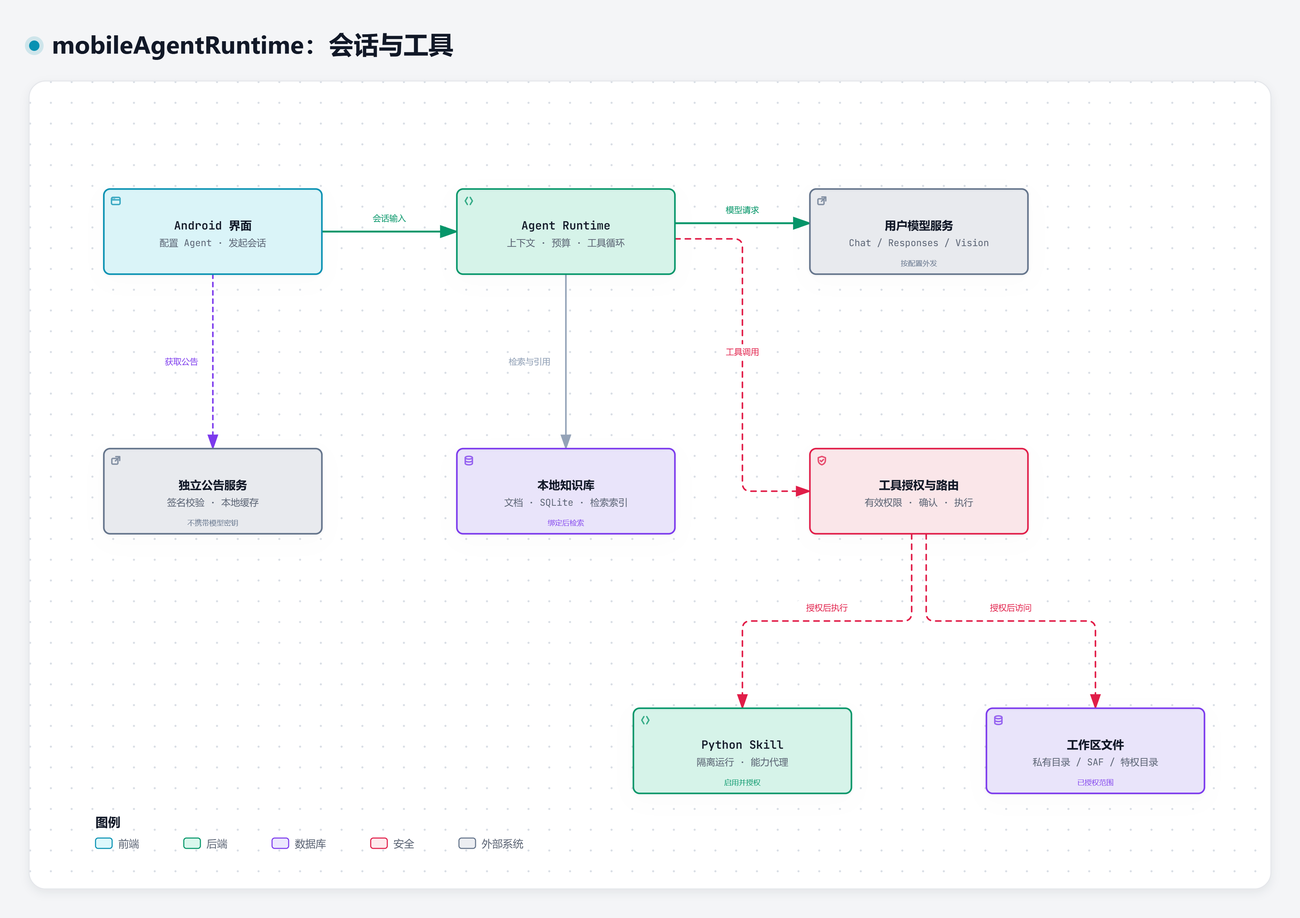
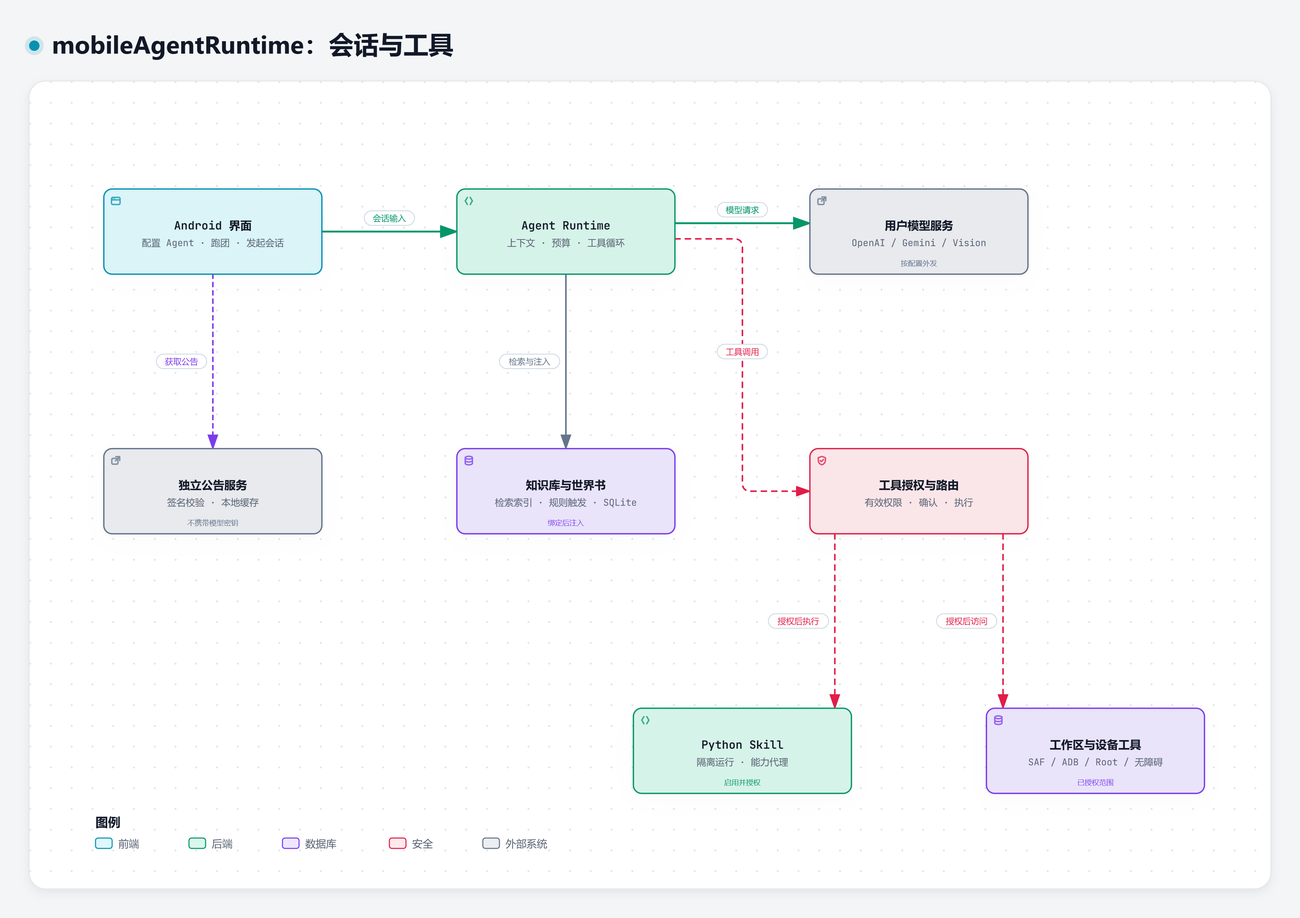
docs: rewrite user-facing README for v1.5.0 and refresh Archify diagram

diff --git a/README.md b/README.md
@@ -3,200 +3,211 @@
 
 # mobileAgentRuntime
 
-mobileAgentRuntime 是运行在 Android 上的 Agent 工作台。你可以接入自己的模型服务，为不同任务组合提示词、知识库、Skills 和文件权限，在手机上完成资料问答、文档处理和工具调用。
+mobileAgentRuntime 是运行在 Android 上的本地 Agent 工作台。你可以接入自己的大模型 API，按任务组合系统提示词与知识库，挂载世界书、角色卡和 Python 技能，或调用工作区与设备工具处理文档、读写代码并主持跑团（TRPG）战役。
 
-应用在设备端保存配置、会话、知识文件和检索索引，并管理上下文、执行预算与授权。模型推理由你配置的服务提供；聊天、视觉处理和 API Embedding 会向对应服务发送所需内容。默认本地 Embedding 在设备上运行。项目的公告服务独立于模型接入。
-
-本文面向已有 API 接入基础的用户，重点说明应用内的配置关系和使用流程。
-
-## 功能
-
-| 用途 | 应用提供的能力 |
-| --- | --- |
-| 多模型与多 Agent | 接入 OpenAI-compatible Chat Completions 或 OpenAI Responses，为 Agent 选择模型、提示词修订和运行预算 |
-| 资料问答 | 导入文件、文件夹或 ZIP，建立本地知识库，结合全文与向量检索返回可追溯引用 |
-| 图片与复杂文档 | 使用支持图片输入的模型处理图片、扫描页及需要视觉解释的内容，保留处理状态与视觉缺口 |
-| Skills | 导入以 `SKILL.md` 为入口的技能包；符合兼容条件的 Python 程序可在隔离运行时执行 |
-| 文件任务 | 在应用私有工作区、系统授权文件夹或已授权的特权目录中读写文件 |
-| 外部工具 | 按配置使用联网搜索、远程 HTTP MCP，以及 Shizuku / Windows 有线 ADB Companion |
-| 排障 | 查看脱敏请求预览、能力探测结果和导入进度，按需导出诊断 ZIP |
+应用在设备本地保存配置与会话历史，同时托管知识库、世界书和检索索引。默认向量化（ONNX Embedding）在手机端离线运行；聊天推理与视觉解析，以及可选的 API Embedding 和联网搜索，均直连你配置的服务商。
 
 ![mobileAgentRuntime 会话与工具架构](docs/diagrams/project-overview.png)
 
-图表由 [Archify](https://github.com/tt-a1i/archify) 生成，概括会话执行路径。知识导入的视觉处理和 API Embedding 另见下文。[图表来源与复现方式](docs/diagrams/README.md)。
+架构图由 [Archify](https://github.com/tt-a1i/archify) 生成，展示单次会话与工具调用的执行路径，复现方式见[图表说明](docs/diagrams/README.md)。
 
-## 使用
+## 功能概览
 
-### 安装与基本要求
+| 场景 | 可用能力 |
+| --- | --- |
+| 多协议模型接入 | 支持 OpenAI Chat Completions、OpenAI Responses、Google AI Studio 与 Vertex AI Express 原生接口，兼容各类 HTTPS/HTTP 反代网关 |
+| 多模态对话 | 支持发送文字与图片（单条消息最多 8 张），提供自动上下文压缩、运行预算控制、会话归档与完整 ZIP 备份 |
+| 角色卡与世界书 | 导入 Tavern v1 与 Character Card v2/v3（JSON/PNG），批量导入并管理世界书，支持关键词、正则、递归激活与离线触发测试 |
+| 跑团模式（TRPG） | 专用桌面跑团界面，内置 D&D 与 CoC 7 版数值框架、复合骰子与检定卡、团务日志、队伍背包、地点地图、检查点分支与本机氛围媒体 |
+| 本地知识库 | 导入文档、文件夹或 ZIP，对图片与扫描页执行多模态视觉解析，通过本地 SQLite FTS5 与 USearch 向量混合检索返回带出处的引用 |
+| 技能（Skills） | 导入以 `SKILL.md` 为入口的技能包，支持纯指令技能，并在 Android 隔离 CPython 3.14 运行时中执行兼容的 Python 脚本与标准库 CLI |
+| 工作区与设备工具 | 在应用私有目录、SAF 授权文件夹、ADB 特权目录或 Root 目录中读写文件、搜索代码与应用补丁，支持 Shizuku、有线常驻 ADB、Root 与无障碍辅助 |
+| 联网、MCP 与诊断 | 集成 Brave、Tavily、Exa 搜索及 DeepSeek 搜索与网页抓取，支持远程 HTTP MCP 工具绑定，提供请求检查器与脱敏诊断包导出 |
 
-- Android 8.0（API 26）及以上；正式包为 `arm64-v8a`，Debug/Review 另支持 `x86_64`。
-- 从 [GitHub Releases](https://github.com/hedanbaomi/mobile-agent-runtime/releases) 获取正式 APK，或按本文的[源码构建](#构建)生成安装包。
-- v1.0.2 起每天首次打开会检查正式更新，也可在“关于”手动检查。发现新版后点击“下载并安装”，首次按系统提示允许安装，再确认升级。旧版本请先从 Releases 手动安装 v1.0.2；详见 [更新说明](docs/APP_UPDATES.md)。
-- 准备可访问的模型端点、模型 ID 和凭据。需要图片输入或工具调用时，确认所选服务与模型支持相应协议能力。
+## 快速上手
 
-主要页面从全局侧边菜单进入：**对话、智能体、服务商、知识、技能、公告、设置、MCP、请求检查器**。手机上点左上角菜单按钮，宽屏窗口使用常驻侧栏。
+### 安装与更新
 
-Debug/Review 与正式包签名不同，首次切换前先导出并核对需要保留的数据，不能直接覆盖安装。正式版本与发布附件说明见 [发布文档](docs/RELEASING.md)。
+- **系统要求**：Android 8.0（API 26）及以上。正式发行包面向 `arm64-v8a` 设备，Debug 与 Review 构建额外包含 `x86_64` 以支持模拟器。
+- **获取安装包**：从 [GitHub Releases](https://github.com/hedanbaomi/mobile-agent-runtime/releases) 下载最新正式版 APK（当前最新稳定版为 `v1.5.0`），或参照下文[构建](#构建)章节从源码打包。
+- **应用内更新**：应用在前台运行时每小时自动检查 GitHub 正式版更新，也可在**设置 → 关于**中手动检查。点击“下载并安装”后，应用会在校验文件哈希与签名后拉起系统安装界面；更新机制详见[更新说明](docs/APP_UPDATES.md)。
 
-### 建立第一段会话
+全局导航菜单汇集了全部功能入口，包括**对话**、**智能体**、**服务商**、**知识**、**世界书**、**技能**、**公告**、**设置**、**MCP** 和**请求检查器**。手机端点击左上角菜单按钮或从侧边滑出抽屉，平板与宽屏窗口使用常驻侧栏。
 
-1. 在**服务商**中新建服务商，填写 Base URL、API 格式和凭据，再添加模型配置。先配置一个 `CHAT` 模型即可。
-2. 选择模型并运行**测试连接**。需要工具调用或图片输入时，再执行**能力探测**；探测会发出实际请求，可能产生费用。
-3. 在**智能体**中新建 Agent，选择 Chat 模型和提示词，保存配置。知识库、Skills 和工作区可以随后添加。
-4. 在**对话**中选择该 Agent，新建会话并发送消息。
-5. 需要处理自己的资料或文件时，按下文绑定知识库、Skill 或工作区，再创建使用新配置的会话。
+Debug/Review 构建与正式发行包使用不同签名。首次在两者之间切换前，请先在**设置 → 数据与备份**中导出所需数据，卸载旧包后再安装新包。发布规范与附件校验方式见[发布文档](docs/RELEASING.md)。
 
-新会话保存 Agent 配置快照。修改 Agent 的模型、提示词和资源组合，从新会话开始使用；撤销资源权限或禁用 Skill 仍会限制旧会话的后续调用。每个会话还持有自己的工作区绑定，修改 Agent 默认工作区只影响新会话。
+### 开启第一段对话
 
-### 配置模型
+1. 进入**服务商**，新建服务商并填写 API 格式、Base URL 与 API Key，接着添加一个 `CHAT` 角色的模型配置。
+2. 选中刚添加的模型，点击**测试连接**验证连通性。若后续需要使用图片输入或工具调用，可再点击**能力探测**（探测会发起一次真实请求）。
+3. 进入**智能体**，新建 Agent（日常问答与工具任务选择普通模式，桌面角色扮演选择跑团模式），选定 Chat 模型并编写系统提示词后保存。
+4. 回到**对话**页面，选择该 Agent 新建会话，即可发送文字或附图开始交流。
+5. 需要结合本地资料、世界书或文件目录时，回到智能体编辑页绑定对应资源，新建会话即可使用新配置。
 
-| API 格式 | 请求入口 | 选择条件 |
+新建会话时会保存一份当前 Agent 的配置快照。后续修改 Agent 的模型、提示词或默认工作区，只会作用于新创建的会话，不会打乱已有会话的上下文；而撤销权限、停用技能或关闭联网搜索会立即对所有会话生效。在会话列表中长按某条对话可将它归档，后续可在**设置 → 数据与备份 → 已归档的对话**中查看或恢复。
+
+## 配置服务商与模型
+
+### 协议格式与端点
+
+| API 格式 | 请求方式 | 适用服务 |
 | --- | --- | --- |
-| OpenAI-compatible | `POST /chat/completions` | 服务提供 Chat Completions 兼容接口 |
-| OpenAI Responses | `POST /responses` | 服务实际支持 Responses 接口及其输入格式和事件流 |
+| OpenAI-compatible | `POST /chat/completions` | OpenAI 及兼容 Chat Completions 协议的服务商与反代网关 |
+| OpenAI Responses | `POST /responses` | 支持 Responses 协议、对应输入格式与事件流的服务端 |
+| Google AI Studio | 原生 `generateContent` / `streamGenerateContent` | Google AI Studio 官方接口，默认地址 `https://generativelanguage.googleapis.com/v1beta` |
+| Google Vertex AI Express | 原生 `generateContent` / `streamGenerateContent` | Google Cloud Vertex Express API Key 模式，需将默认地址中的 `PROJECT_ID` 替换为实际项目 ID |
 
-Base URL 使用服务商提供的 API 前缀，例如 `https://api.example.com/v1`，不填写完整的聊天请求路径。切换 API 格式应以端点支持情况为准。
+填写 OpenAI 兼容或 Responses 地址时，输入服务商给出的 API 基础前缀（如 `https://api.example.com/v1` 或 `https://api.deepseek.com`），应用会自动拼接 `/chat/completions`、`/responses` 或 `/embeddings`，不会强行插入 `/v1`。接入 One API 或 New API、LiteLLM、CLIProxyAPI 等自建反代时，支持自定义端口与路径前缀，也可连接局域网 HTTP 地址。Google AI Studio 与 Vertex Express 走原生 Gemini 协议，直接填写 `gemini-...` 或 `google/gemini-...` 等模型名称即可，支持原生图文输入、工具调用与思考签名续轮。
 
-图片输入属于 Chat 模型的能力。若聊天或知识导入需要视觉处理，选择具备图片输入能力的 Chat 模型；为普通文本模型勾选图片能力不能使服务端获得该能力。API Embedding 使用单独的 `EMBEDDING` 模型配置。
+### 图片输入、上下文与请求检查器
 
-连接测试用于检查当前目标的基础请求，能力探测分别检查所需能力。基础连接成功后，图片或工具探测仍可能失败，也可能因超时而处于未知状态。更换端点、模型或相关配置后，应重新检查能力。
+- **聊天附图与多模态**：会话绑定的 Chat 模型开启图片能力后，点击聊天输入框旁的图片按钮即可从系统相册选择最多 8 张图片（支持 PNG/JPEG/GIF/WebP，单张不超过 2 MiB），可配文字或单独发送图片。知识库导入中的图片解析同样复用具备图片能力的 Chat 模型，API Embedding 则通过独立的 `EMBEDDING` 角色模型配置。
+- **上下文窗口与自动压缩**：上下文窗口支持自动读取服务端元数据，也可按模型规格手动指定。长对话接近输入预算、可用窗口或轮次上限时，应用会自动将早期历史压缩为可追溯摘要并继续运行，同时保留最近的上传原图与工具调用关系。
+- **输出预算与参数 JSON**：输出上限可跟随服务商默认或手动指定。额外模型参数可通过参数 JSON 传入（OpenAI 协议传入标准采样字段，Google 原生协议映射至 `generationConfig`）。
+- **请求检查器**：在侧栏打开**请求检查器**，可以查看当前会话实际发往模型的分层提示词、有效参数与已注册工具列表。检查器会自动隐去 API Key 等凭据，方便核对提示词拼接与排查超限问题。
 
-#### 上下文、输出和参数
+## 角色卡、世界书与跑团模式
 
-- **上下文窗口**可自动读取服务返回的元数据或受支持目录。无法取得可靠窗口时，按模型与服务商的实际限制手动填写；不要把“未知”当作无限窗口。
-- **输出预算**可以跟随服务商，或手动设置。手动预算应与上下文窗口和任务长度匹配。
-- **参数 JSON**用于传入模型需要的附加参数。按端点文档设置，避免同一输出限制同时使用多个字段别名。
-- **Agent 预算**限制历史输入、模型请求次数和工具循环等运行行为；可按任务调整上下文压缩策略。
+### 角色卡导入
 
-**请求检查器**用于核对有效参数、消息与工具列表。预览中的凭据会被脱敏，但消息内容仍可能包含你的资料，应在分享前检查。输入超限时，可缩短历史、减少绑定内容或调整压缩策略；单纯提高输出预算会进一步占用可用上下文。
+在**智能体**页面点击**导入角色卡**，可选择 Tavern v1 或 Character Card v2/v3 格式的 `.json` 与 `.png` 文件。预览界面会展示角色设定、格式信息与兼容性提示，你可以设置玩家称呼、切换多个开场白，并勾选是否一并导入卡内嵌的世界书。确认后会生成一份可自由编辑的 Agent 草稿，选定模型并保存即可开启对话；新建会话会自动插入所选的助手开场白。
 
-### 使用知识库
+### 世界书
 
-1. 在**知识**中新建知识库，选择文件、文件夹或 ZIP。支持 TXT、Markdown、PDF、DOCX、EPUB 和常见图片；实际解析结果取决于文件内容与格式支持情况。
-2. 含图片、扫描页或需要视觉解释的页面，选择合适的图片输入模型，并确认本批次的处理范围与费用授权。
-3. 查看批次和文档状态。文件复制、暂存或入队完成之后，仍需要解析、视觉处理、分块和索引。
-4. 内容就绪后，在 **Agent 配置**中绑定知识库，再新建会话。自动检索模式会把相关片段加入请求，回答中的引用可回到来源。
+世界书用于按对话内容动态注入背景设定，不占用持久聊天消息，也无需建立向量索引。
 
-默认使用本地 ONNX Embedding，并结合 SQLite FTS5 与向量索引检索。切换 Chat 服务商不需要重新向量化知识库。若选择 API Embedding，需要额外配置模型与向量维度，并确认向外部服务发送相应文本；不同 Embedding 空间的向量不能混用，空间变更按页面提示处理索引。
+1. 在**世界书**页面可直接新建，或点击**导入**批量导入多份 `.json` 文件、文件夹与 ZIP 压缩包。支持原生格式、SillyTavern World Info、Character Book 与 `lorebook_v3`，导入前可预览每个文件的识别结果并选择同名处理策略（保留两者、覆盖或跳过）。
+2. 为条目设置常驻状态或触发关键词，支持次要逻辑、正则表达式（RE2/J）、递归激活、触发概率、包含组权重、持续/冷却/延迟轮数以及插入位置（角色提示词前后、指定消息深度或 `{{outlet::名称}}` 出口）。
+3. 使用页面内的**离线测试**输入模拟对话文本，无需消耗模型额度即可查看条目的命中、排序与排除原因。
+4. 在 Agent 编辑页绑定默认世界书，也可用对话页顶部的世界书按钮为当前会话单独开关或覆盖预算设置。发送消息后，点击对话内的**本轮使用情况**即可查看本轮实际命中的条目与预算占用。
 
-#### 处理状态与恢复
+### 跑团模式（TRPG）
 
-| 状态或现象 | 含义与操作 |
+新建 Agent 时将模式设为 **TRPG**，基于该 Agent 创建的对话即进入跑团工作台。
+
+- **状态栏（HUD）与角色卡**：对话顶部提供可折叠的跑团工具栏，展示当前角色与场景摘要。点击状态板可管理规则体系（自定义、D&D 3R、D&D 5E、CoC 7 版）、玩家角色卡、队伍成员、背包物品、状态条件与先攻轮次，也可一键补充 D&D 或 CoC 常用数值项（如 HP、MP、SAN、幸运、法术位）。
+- **骰盘与检定**：内置手动骰盘与模型工具（`dice_roll` 与 `random_number`）。标准骰子表达式支持 `NdM`、优势/劣势（如 `2d20kh1+7`、`4d6kh3`）与 DC 判定；CoC 7 版检定支持技能值与奖惩骰，自动计算极难成功、困难成功、大成功与大失败，并在消息流中渲染交互式检定卡与状态变更卡。
+- **团务日志、地图与分支检查点**：团务面板记录检定历史、资源净变化、故事章节、任务线索与进度时钟，支持对最近一次状态改动执行撤销（Undo），并提供地点关系地图。你可以在稳定的消息边界创建**检查点**，随时从历史节点拉出新的平行分支会话，或导出过滤掉主持人隐藏信息的玩家视图资料。
+- **语音与本机氛围**：支持调用系统语音输入填充草稿、使用本机已安装的离线 TTS 朗读回复，以及从本地选择背景音乐、环境音效、场景插图与地图底图（素材仅保存在本机当前会话偏好中，不会上传给模型）。
+
+## 知识库
+
+1. 在**知识**页面新建知识库，选择文件、文件夹或 ZIP 压缩包。支持 TXT、Markdown、PDF、DOCX、EPUB 及常见图片格式。
+2. 导入包含图片、扫描页或复杂排版的文档时，选择具备图片输入能力的 Chat 模型并确认批次处理范围；若只需提取纯文本，也可显式选择接受视觉缺口继续导入。
+3. 导入任务在后台分阶段完成复制暂存、文档解析、视觉处理、文本分块与向量化。在**处理限制**中可设置 1–6 个并发请求数与失败阈值，中断后重新恢复会自动复用已缓存的成功结果。
+4. 知识库状态变为**就绪**后，在 Agent 配置中绑定该知识库并新建会话。提问时应用会通过本地 SQLite FTS5 全文检索与 USearch 向量检索（RRF 融合）召回相关片段，回答中的编号引用可直接定位回原文与原图。
+
+应用默认使用内置的本地 ONNX Embedding 模型，切换聊天服务商无需重建知识库索引。如需改用远程 API Embedding，可在服务商中配置 `EMBEDDING` 角色模型并在知识库中切换向量空间。
+
+## 技能、工作区与设备工具
+
+### 导入与运行 Skill
+
+在**技能**页面导入以 `SKILL.md` 为核心的技能包。你可以先审阅来源、许可证和源码文件，核对兼容性分析报告后再安装、启用并绑定到目标 Agent。
+
+- **纯指令技能**：安装启用并绑定 Agent 后，其说明内容会按需纳入 Agent 提示词。
+- **Python 与标准库 CLI 技能**：应用会自动分析包内脚本的兼容性（无需额外编写 `mobile-skill.json`，该清单仅作为可选高级扩展）。兼容的纯 Python 脚本与标准库命令行工具会在 Android 独立的 `isolatedProcess`（CPython 3.14）中运行，通过能力代理受控访问已授权的知识库、网络、模型接口或技能存储。
+
+### 文件工作区与代码工具
+
+在 Agent 配置中可授予多个目录授权并指定新会话的默认工作区，文件的读写、删除与补丁操作分别受独立权限控制。
+
+| 工作区类型 | 适用场景 |
 | --- | --- |
-| 暂存 / 排队 / 处理中 | 后台任务仍在执行，查看批次进度与阶段 |
-| 等待视觉配置或确认 | 补齐图片模型、凭据或批次确认，再恢复处理 |
-| 就绪 | 对应内容已发布到可检索索引 |
-| 存在视觉缺口 | 仅有明确接受的文本降级内容；回答不应视作涵盖全部图片 |
-| 失败 / 等待重试 | 查看原因，修正配置或文件后按提示恢复 |
-| 结果未知 | 请求可能已由服务端处理；按该批次的恢复规则操作，重试可能再次计费 |
+| 应用私有工作区 | 让 Agent 在应用沙盒内创建、整理和读写文件，开箱即用 |
+| 系统授权文件夹（SAF） | 通过 Android 系统文件选择器授权指定外部文件夹，适合处理手机文档目录 |
+| ADB 特权目录 | 经 Shizuku 或有线常驻 ADB 挂载系统级可达目录，再按需授权给 Agent |
+| Root 目录 | 在已 Root 设备上经 Direct Root（`su`）或 Shizuku Root 挂载特权目录，支持完整 POSIX 文件与元数据操作 |
 
-批次导入保存检查点，支持后台恢复和有界重试。**处理限制**中可设置 1–6 个并发请求及失败阈值等限额；从较低并发开始，按服务端限流和手机资源调整。恢复会复用满足缓存条件的成功结果，但不保证服务端恰好一次处理或计费。Android 后台限制、存储不足和应用被强行停止仍可能中断任务。
+除基础的文件增删改查外，工作区还支持大文件分块读取（`file_stat`）与带版本校验的原子补丁（`apply_patch`），提供文件名通配搜索（`file_glob`）、字面文本搜索（`file_grep`）和有界并发批量读取（`read_batch`），并可在单次运行内管理后台任务（`job_start`、`job_output` 与 `job_cancel`）。工具调用默认需要逐次确认；你也可以在设置中开启“跳过工具运行确认”或“Root 只读免确认”以简化高频读取操作。
 
-未配置可用视觉模型的含图资料会等待处理。需要只保留文本时，应明确接受视觉缺口；“已导入”或“有检索结果”不代表全部图文都处理完整。
+### Shizuku、有线常驻 ADB、Root 与无障碍辅助
 
-### 导入 Skill
+日常聊天、知识问答与普通文件夹读写不需要配置以下高权限通道。需要跨目录处理系统文件、执行 Shell 命令或自动化操作手机界面时，可在**设置**中按需启用。
 
-在**技能**中导入技能包，检查来源、许可、源码与兼容性，再安装、启用并绑定目标 Agent。导入成功、启用、绑定和授予程序能力是不同步骤。
+- **Shizuku**：在手机上启动 Shizuku 并向本应用授权，随后在应用设置中选择 Shizuku 通道。
+- **有线常驻 ADB（支持拔线运行）**：从 Releases 下载配套的 `mobileAgentRuntime-vVERSION-windows-adb.zip`，在安装了 Java 17+ 与 Google Platform-Tools（`adb`）的 Windows 电脑上解压并运行 `start-wired-adb.bat`。通过 USB 连接手机并按界面提示输入一次性配对令牌完成激活后，设备端常驻服务即可接管后续请求，**退出电脑端工具并拔掉数据线后仍可继续使用**（直至手机重启或手动停止服务）。详细步骤见[有线 ADB Companion 文档](docs/plans/wired-adb-desktop-bridge.md)。
+- **Root 通道（Direct `su` 与 Shizuku Root）**：面向已获取 Root 权限的设备，支持直接 `su` 握手或通过 Root 身份的 Shizuku 接入，提供独立的 Root 工作区、文件权限/属主元数据读写（`file_get_metadata` / `file_set_metadata`）与独立授权的 Root `shell_exec`。
+- **Shell 命令执行（`shell_exec`）**：ADB 级通道需在设置中开启危险模式（支持高危命令确认或自主执行两档）并为 Agent 授予命令权限；Root 通道使用独立的 Root Shell 同意开关。普通 Debug 安装包默认禁用危险控制能力，从源码编译验证该流程时请使用 `:app-android:assembleReview`。
+- **无障碍屏幕观察与辅助操作**：在设置中启用无障碍服务与应用内同意开关后，Agent 可通过 `device_observe` 与 `device_wait_for` 直接读取当前屏幕的结构化控件树（自动过滤密码框，比传统截图或 `uiautomator dump` 更快）。Shizuku 或有线 ADB 通道就绪后，还可进一步开启“允许辅助操作”，让 Agent 通过 `device_act` 执行控件点击、长按、文本输入、滚动以及返回/主页/最近任务导航。
 
-- 只有指令的 Skill 可作为任务说明使用。
-- 普通 Skill 不需要 `mobile-skill.json`；应用会分析兼容性。这个文件仅是本项目可选的执行扩展，兼容纯 Python 程序和部分标准库 CLI 可在 Android 隔离运行时执行。
-- 依赖桌面系统、Node、Docker、未支持模块或第三方原生扩展的程序，会显示兼容性限制；具体支持范围以检查结果为准。
+### 联网搜索、网页抓取、MCP 与公告
 
-Python 通过能力代理访问已授权的知识、网络、模型调用或 Skill 存储。执行清单、当前授权、Agent 绑定和预算共同决定能否运行。包更新或新增能力可能需要重新授权。
-
-## 工具与文件权限
-
-### 选择工作区
-
-| 工作区 | 使用方式 |
-| --- | --- |
-| 应用私有工作区 | 适合由 Agent 在应用内创建和管理文件 |
-| 系统授权文件夹（SAF） | 通过 Android 文件选择器授予目录访问，受系统文件提供器与应用权限限制 |
-| 特权目录 | 经 Shizuku 或有线 ADB 连接取得所选身份可访问的目录，再单独授权给 Agent |
-
-在 Agent 配置中授予所需目录和文件能力，设置默认工作区，再建立会话。读取、写入、删除与补丁操作有各自权限；获得目录访问不等于获得所有操作权限。撤权、目录失效或连接不可用后，相关工具会受限。
-
-工具调用默认需要确认。高级设置中的“跳过工具运行确认”只调整确认流程，仍受权限、快照、连接状态和预算检查约束。
-
-### Shizuku 与有线 ADB
-
-这些连接方式用于需要高权限文件访问或命令执行的任务，普通聊天与知识问答无需配置。
-
-- **Shizuku**：先在设备上启动 Shizuku，再向应用授予权限，在应用设置中选择并检查接入通道。
-- **有线 ADB**：在 Windows 运行本仓库的 Desktop Companion，通过 USB 连接 Android 设备，完成设备授权与应用配对。实施与配置见[有线 ADB Companion 文档](docs/plans/wired-adb-desktop-bridge.md)。
-
-`shell_exec` 还要求当前构建允许控制能力、接入通道就绪、危险模式与命令权限有效。确认前核对命令、工作目录和来源。普通 Debug 构建禁用危险控制能力；需要验证这一流程时，使用不可调试的 Review 构建。所选 ADB 身份的权限也不等于 Root。
-
-### 联网搜索、MCP 与公告
-
-在**设置 → 联网搜索**中选择 Brave、Tavily 或 Exa，保存该服务的 API Key 并启用。各服务的密钥分别加密保存，切换服务不会覆盖其他密钥；移除密钥只影响当前服务。已有 Brave 配置可继续使用。
-
-在**智能体 → 编辑 → 允许联网搜索**中决定该 Agent 是否能搜索，默认关闭。开启并保存后，新会话可以直接调用 `web_search`，无需逐次批准，查询可能产生服务商费用；关闭并保存后，旧会话也立即失去搜索权限。该开关独立于其他工具的确认设置。搜索只返回有界的标题、链接和摘要，不自动打开网页。配置、权限和请求边界见[联网搜索](docs/WEB_SEARCH.md)。
-
-MCP 页面用于配置远程 HTTP 服务、发现工具和确认绑定；Android 端不会自动启动桌面上的 stdio、Node 或 Shell MCP 服务器。外部工具的描述与返回内容按不可信资料处理，不能自行扩大本地权限。
-
-公告使用独立的签名服务与本地缓存，获取公告不携带模型凭据。匿名统计默认开启，可在设置中关闭；已保存的关闭选择在升级后保持，关闭统计仍可阅读公告。
+- **联网搜索与网页抓取**：在**设置 → 联网搜索**中选择 **Brave**、**Tavily**、**Exa** 或 **DeepSeek**，填入对应 API Key 并启用（各家密钥独立加密保存，切换服务不会清空其他密钥）。随后在 **智能体 → 编辑** 中打开**允许联网搜索**并保存，会话即可直接调用 `web_search` 检索公开网页摘要；选择 DeepSeek 时还会同时启用 `web_fetch`，支持将指定公开网页正文抓取为 Markdown。详见[联网搜索说明](docs/WEB_SEARCH.md)。
+- **远程 MCP**：在 **MCP** 页面配置远程 HTTP MCP 服务端地址与认证信息，执行工具发现后即可将外部工具绑定给指定 Agent。
+- **公告与统计**：**公告**页面展示项目通知与版本动态，支持离线缓存且独立于模型配置；匿名统计可在设置中随时关闭。
 
 ## 排障与诊断
 
-| 问题 | 先检查什么 |
+| 常见现象 | 排查方向 |
 | --- | --- |
-| 连接测试失败 | Base URL、API 格式、模型 ID、凭据和端点可达性 |
-| 能聊天，但图片或工具失败 | 分别探测能力，核对端点协议和实际模型支持；未知结果不能直接认定为不支持 |
-| 自动上下文窗口未知 | 是否有可靠元数据；必要时按服务商限制手动配置 |
-| 输入预算不足 | 历史、知识片段、图片及工具 schema 的总量，以及输出预留 |
-| 导入后仍不可检索 | 文档是否就绪、视觉确认是否完成、索引是否可用、Agent 是否绑定该库 |
-| Python 程序不可运行 | 兼容性等级、依赖、启用状态、Agent 绑定与能力授权 |
-| 工作区或命令工具未出现 | 会话工作区、有效权限、模型工具能力，以及特权通道和构建限制 |
+| 连接测试失败（401 / 404 / 超时） | 检查 Base URL 前缀、API 格式、模型 ID 与凭据；使用 Vertex Express 时确认已将 `PROJECT_ID` 替换为实际项目 ID；连接局域网反代时填写电脑局域网 IP 而非 `127.0.0.1` |
+| 能正常文字聊天，但发图或工具调用失败 | 在服务商页面对该模型运行**能力探测**，确认上游渠道与模型本身支持多模态输入或原生 Function Calling |
+| 提示输入预算不足或上下文溢出 | 通过**请求检查器**查看历史消息、知识库片段、世界书条目与附图占用，适当缩减单次绑定资源或调小预留输出预算 |
+| 知识库导入后搜不到内容 | 查看导入批次是否已进入**就绪**状态、含图批次是否停留在等待视觉确认，以及当前会话所用的 Agent 快照是否已绑定该知识库 |
+| 世界书条目未触发 | 在世界书页面使用**离线测试**输入对话文本，检查关键词、次要条件、概率或扫描深度，并在对话页打开**本轮使用情况**查看排除原因 |
+| Python 技能无法运行 | 在技能详情查看兼容性分析结果，确认脚本未依赖桌面专属模块或原生扩展，并检查技能是否已启用、绑定 Agent 及授予所需能力 |
+| 工作区或 Shell 工具未出现在模型工具列表中 | 检查当前会话绑定的工作区、Agent 文件/命令权限、模型工具能力，以及 Shizuku / 有线 ADB / Root 通道连接状态；源码构建测试危险模式需使用 Review 包 |
 
-需要提交故障现场时，在**设置**中开启**应用内诊断记录**，复现后选择**导出诊断 ZIP**。一并说明操作步骤、发生时间、构建版本和预期结果；确认导出成功后再清除日志。
-
-诊断默认关闭，日志级别默认 INFO，保留阶段、结果与错误。在设置页可切换为 DEBUG，记录详细进度和经凭据脱敏的视觉处理文本；级别选择会保存。分享 ZIP 前检查是否含有敏感资料，切回 INFO 不会清除已有 DEBUG 记录。系统 ANR、原生崩溃等信息可能还需要同一安装包的 ADB Logcat。诊断机制见[诊断文档](docs/DIAGNOSTICS.md)。
+遇到难以复现的问题或使用 Root / 设备工具需要反馈 Bug 时，可在**设置**中开启**应用内诊断记录**（默认 `INFO` 级别，切换为 `DEBUG` 可记录更详细的阶段进度），复现问题后点击**导出诊断 ZIP**，连同复现步骤、构建版本与发生时间提交至 [GitHub Issues](https://github.com/hedanbaomi/mobile-agent-runtime/issues)。诊断日志会对密钥与敏感凭据做脱敏处理，机制说明见[诊断文档](docs/DIAGNOSTICS.md)。
 
 ## 构建
 
-使用 JDK 17、Android SDK 35 和仓库内 Gradle Wrapper。通过 Android Studio 或 `local.properties` 设置 SDK 路径；原生库、Python 运行时和模型包使用仓库锁定的来源与校验值，首次构建需要下载相应依赖。
+开发环境需要 **JDK 17**、**Android SDK 35** 与仓库自带的 Gradle Wrapper。通过 Android Studio 或根目录 `local.properties` 配置 SDK 路径；首次构建会按仓库锁定的地址与校验值自动下载原生库、CPython 运行时与本地 Embedding 模型包。
 
-在仓库根目录执行；以下为 Windows PowerShell 示例：
+在仓库根目录执行以下命令即可构建并安装 Debug 包（Windows PowerShell 示例，macOS / Linux 将 `.\gradlew.bat` 替换为 `./gradlew`）。
 
 ```powershell
 .\gradlew.bat :app-android:assembleDebug --dependency-verification=strict
 adb install -r .\app-android\build\outputs\apk\debug\app-android-debug.apk
 ```
 
-Debug 包适合调试应用与普通功能。生成 Debug 密钥签名、不可调试的 Review 包：
+只针对单台真机或模拟器快速打包 Debug APK 时，可使用单 ABI 辅助脚本（跳过另一架构的原生编译）。
+
+```sh
+bash tools/dev-apk arm64-v8a
+# 或面向模拟器：
+bash tools/dev-apk x86_64
+```
+
+需要验证危险模式与高权限控制面时，请构建 Review 包。该包使用本地 Debug 密钥签名，但关闭了调试标志（`debuggable=false`）。
 
 ```powershell
 .\gradlew.bat :app-android:assembleReview --dependency-verification=strict
 adb install -r .\app-android\build\outputs\apk\review\app-android-review.apk
 ```
 
-Review 使用本地 Debug 签名身份，不是正式 Release。覆盖安装要求签名相同；设备上已有其他签名版本时，先处理数据保存与迁移。正式 Release 需要显式配置签名材料，不会回退到 Debug 密钥。
+### 开发与提交前检查
 
-### 提交前检查
+日常修改后可使用 `tools/dev-check` 快速运行定向测试、许可证检查与模块边界校验。
 
-提交前运行仓库门禁；REUSE 命令需要已安装 `reuse`：
+```sh
+bash tools/dev-check :data:sqlite:test '*KnowledgeDisplayQueryTest'
+```
+
+提交 Pull Request 前，请执行完整的仓库门禁与 REUSE 许可证合规检查（需安装 Python 3.11+ 与 `reuse`）。
 
 ```powershell
-.\gradlew.bat licenseGuard licenseGuardReverse check verifyCiPins verifyDependencyLock verifyDependencyVerification --dependency-verification=strict
-reuse lint
+.\gradlew.bat licenseGuard licenseGuardReverse check verifyCiPins verifyDependencyLock verifyDependencyVerification verifyWorkflowYaml --dependency-verification=strict
+python -m reuse lint
 ```
 
 ## 代码结构
 
-| 目录 | 内容 |
+| 目录 | 职责说明 |
 | --- | --- |
-| `app-android/` | Android 应用、平台适配、通道与工具集成 |
-| `feature/` | Compose 页面和交互状态 |
-| `shared/` | 领域模型、Agent Runtime、Provider、知识、Skill 与公告协议 |
-| `data/sqlite/` | 持久化、迁移、仓储和索引协调 |
-| `runtime/` | 平台运行时，包括本地 Embedding、Python 与后台任务 |
-| `desktop/bridge/` | Windows 有线 ADB Companion |
-| `services/announcements/` | 公告 Worker、存储与管理端 |
-| `docs/` | 技术契约、设计、验收和变更证据 |
+| `app-android/` | Android 应用入口、依赖装配、全局导航、特权通道与宿主工具集成 |
+| `feature/` | Compose 功能页面与状态管理（`chat`、`agents`、`providers`、`knowledge`、`worldbooks`、`skills`、`announcements`、`settings`） |
+| `shared/` | 纯 JVM 共享模块，包含领域模型、Agent Runtime（含跑团与世界书引擎）、Provider 适配、知识契约、Skill 协议与桥接协议 |
+| `data/sqlite/` | Bundled SQLite + FTS5 持久化、schema 迁移、仓储实现与索引协调 |
+| `runtime/` | 平台运行时实现，涵盖本地 ONNX Embedding、USearch JNI 向量索引与 Android CPython 隔离执行 |
+| `platform/android/` | Android 存储（SAF / CAS）、Keystore 安全凭据、前台导入任务与 IPC 封装 |
+| `desktop/bridge/` | Windows 有线 ADB 桌面激活与配对工具（Desktop Companion） |
+| `services/announcements/` | 独立公告服务 Worker、D1 存储与管理端 |
+| `docs/` | 架构决策记录（ADR）、模块技术契约、UI 设计稿与验证记录 |
 
-开发资料：[贡献指南](CONTRIBUTING.md) · [技术实现方案](docs/IMPLEMENTATION_PLAN.md) · [知识库契约](docs/KNOWLEDGE.md) · [Skill 与权限模型](docs/SKILLS_AND_SECURITY.md) · [验收项](docs/ACCEPTANCE.md)。
+延伸阅读：[贡献指南](CONTRIBUTING.md) · [技术实现方案](docs/IMPLEMENTATION_PLAN.md) · [知识库契约](docs/KNOWLEDGE.md) · [Skill 与权限模型](docs/SKILLS_AND_SECURITY.md) · [验收项](docs/ACCEPTANCE.md)。
 
 ## 许可证
 
-第一方代码和项目文档采用 **AGPL-3.0-only**。完整文本见 [LICENSE](LICENSE)，归属与分发要求见[许可证政策](LICENSE_POLICY.md)。第三方依赖、模型包、用户知识库和外部 Skills 保留各自许可。
+本项目所有第一方源代码与构建脚本，以及服务端和项目文档，均采用 **AGPL-3.0-only** 许可证。完整条款见 [LICENSE](LICENSE)，归属与合规要求见[许可证政策](LICENSE_POLICY.md)。第三方依赖与模型权重包，以及用户导入的知识库、世界书和外部 Skills，均保留各自原有许可。

diff --git a/docs/diagrams/README.md b/docs/diagrams/README.md
@@ -3,27 +3,27 @@
 
 # README 图表
 
-[会话与工具图](project-overview.png)由 [Archify](https://github.com/tt-a1i/archify) 3.0.1 生成，规格见 [project-overview.json](project-overview.json)。PNG 使用 Archify 的浅色主题导出，不包含查看器按钮或来源浮层。
+[会话与工具图](project-overview.png)由 [Archify](https://github.com/tt-a1i/archify) 3.2.0 生成，规格见 [project-overview.json](project-overview.json)。PNG 使用 Archify 的浅色主题导出，不包含查看器按钮或来源浮层。
 
-图表覆盖 Android 界面发起会话、Agent Runtime 调用模型、检索绑定知识库及授权后执行工具的路径。公告使用独立通道；知识导入、API Embedding、联网搜索和 MCP 的使用条件在仓库 README 中说明。
+图表覆盖 Android 界面发起会话、Agent Runtime 调用模型、检索绑定知识库与世界书，以及授权后执行 Python Skill 和工作区/设备工具的路径。公告使用独立通道；知识导入、API Embedding、联网搜索和 MCP 的使用条件在仓库 README 中说明。
 
 ## 来源与验证
 
-- 项目源码基线：`6d38ce77961378d28e63601853faa775047a667f`。JSON 中每个组件均附带该修订的源码范围。
-- Archify 上游修订：`594f6087358610bd16e64e5602976020871b6bff`；安装目录对应上游 `archify/` 树 `b39bcc918173641199e7ed3e4c54bf8fddd47848`。
+- 项目源码基线：`506431e684c55e451b2289094dafab828a4efc3f`。JSON 中每个组件均附带该修订的源码范围。
+- Archify 上游修订：`208acba8d412335185b2056fedf54b3405df43fb`（`v3.2.0`）；安装目录对应上游 `archify/` 树 `39069dd190f574064fe410aa3af1b6dfd98a522c`。
 - `finalize` 的 validate、deliver、严格 provenance check 和 browser-check 均通过；showcase 包含 9 项制品检查，0 错误、0 警告。
-- 浏览器检查覆盖 1440×900、1600×1000、1920×1080、2048×1320；另检查了深浅主题截图和 README 的 PNG 导出。
[1 lines of base64/hex data omitted]
+- 浏览器检查覆盖 1440×900、1600×1000、1920×1080、2048×1320；另核验了 README 的浅色主题 PNG 导出。
[1 lines of base64/hex data omitted]
 
 图表源文件与 PNG 采用项目的 AGPL-3.0-only；Archify 工具本身保留其 MIT 许可。仓库中只存放项目规格和静态图，不包含 Archify 查看器运行时代码。
 
 ## 重新生成
 
-安装 [Archify](https://github.com/tt-a1i/archify)，在仓库根目录执行。以下示例使用其 Codex 全局安装位置：
+安装 [Archify](https://github.com/tt-a1i/archify)，在仓库根目录执行。以下示例使用其全局安装位置与仓库外 scratch 目录：
 
 ```powershell
 $archifyCli = Join-Path $env:USERPROFILE ".agents/skills/archify/bin/archify.mjs"
-node $archifyCli finalize architecture docs/diagrams/project-overview.json .private/readme-archify-20261005/project-overview.html --repo-root . --quality showcase --json
+node $archifyCli finalize architecture docs/diagrams/project-overview.json E:/mobileAgentRuntime-scratch/readme-archify-20261108/project-overview.html --repo-root . --quality showcase --json
 ```
 
 JSON 的 `meta.output` 指定交互 HTML 的本地生成路径。打开生成的 HTML，切换至浅色主题，从“导出 → PNG”保存图片，再替换 README 引用的 PNG。更换源码基线时，先核对组件与关系，更新来源范围和修订，再运行验收；不要把旧来源当作新源码的证明。
